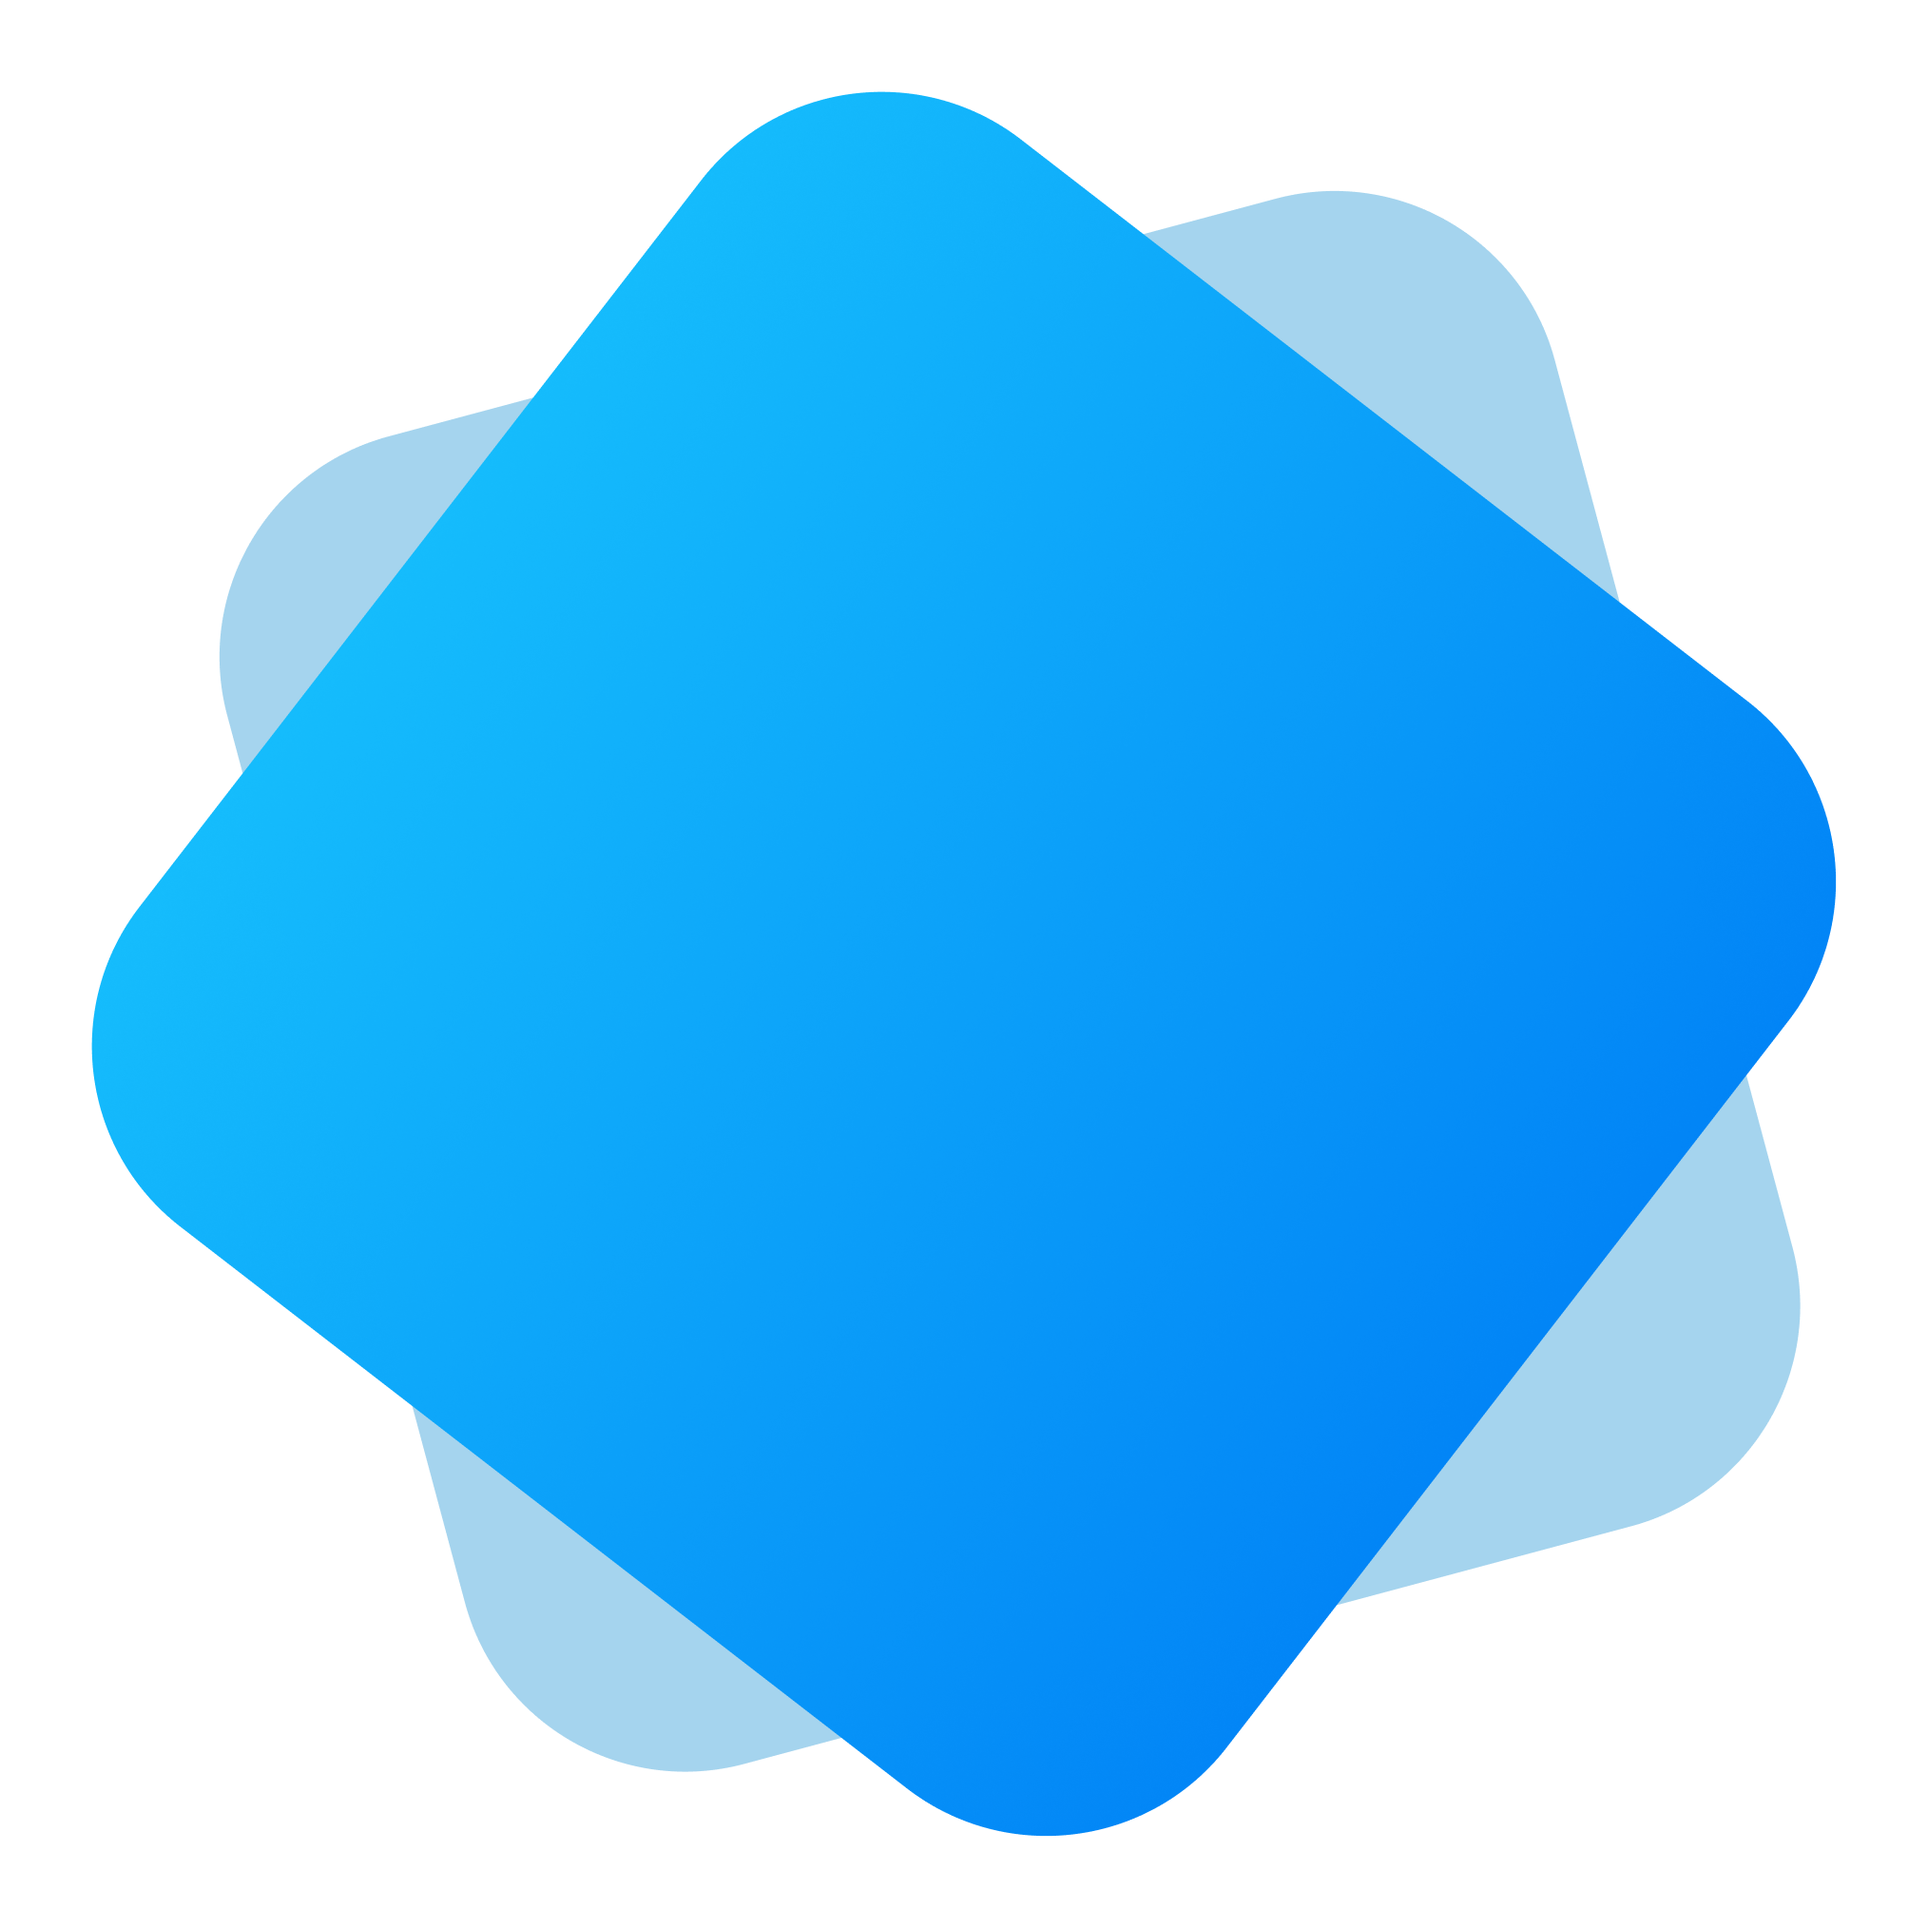
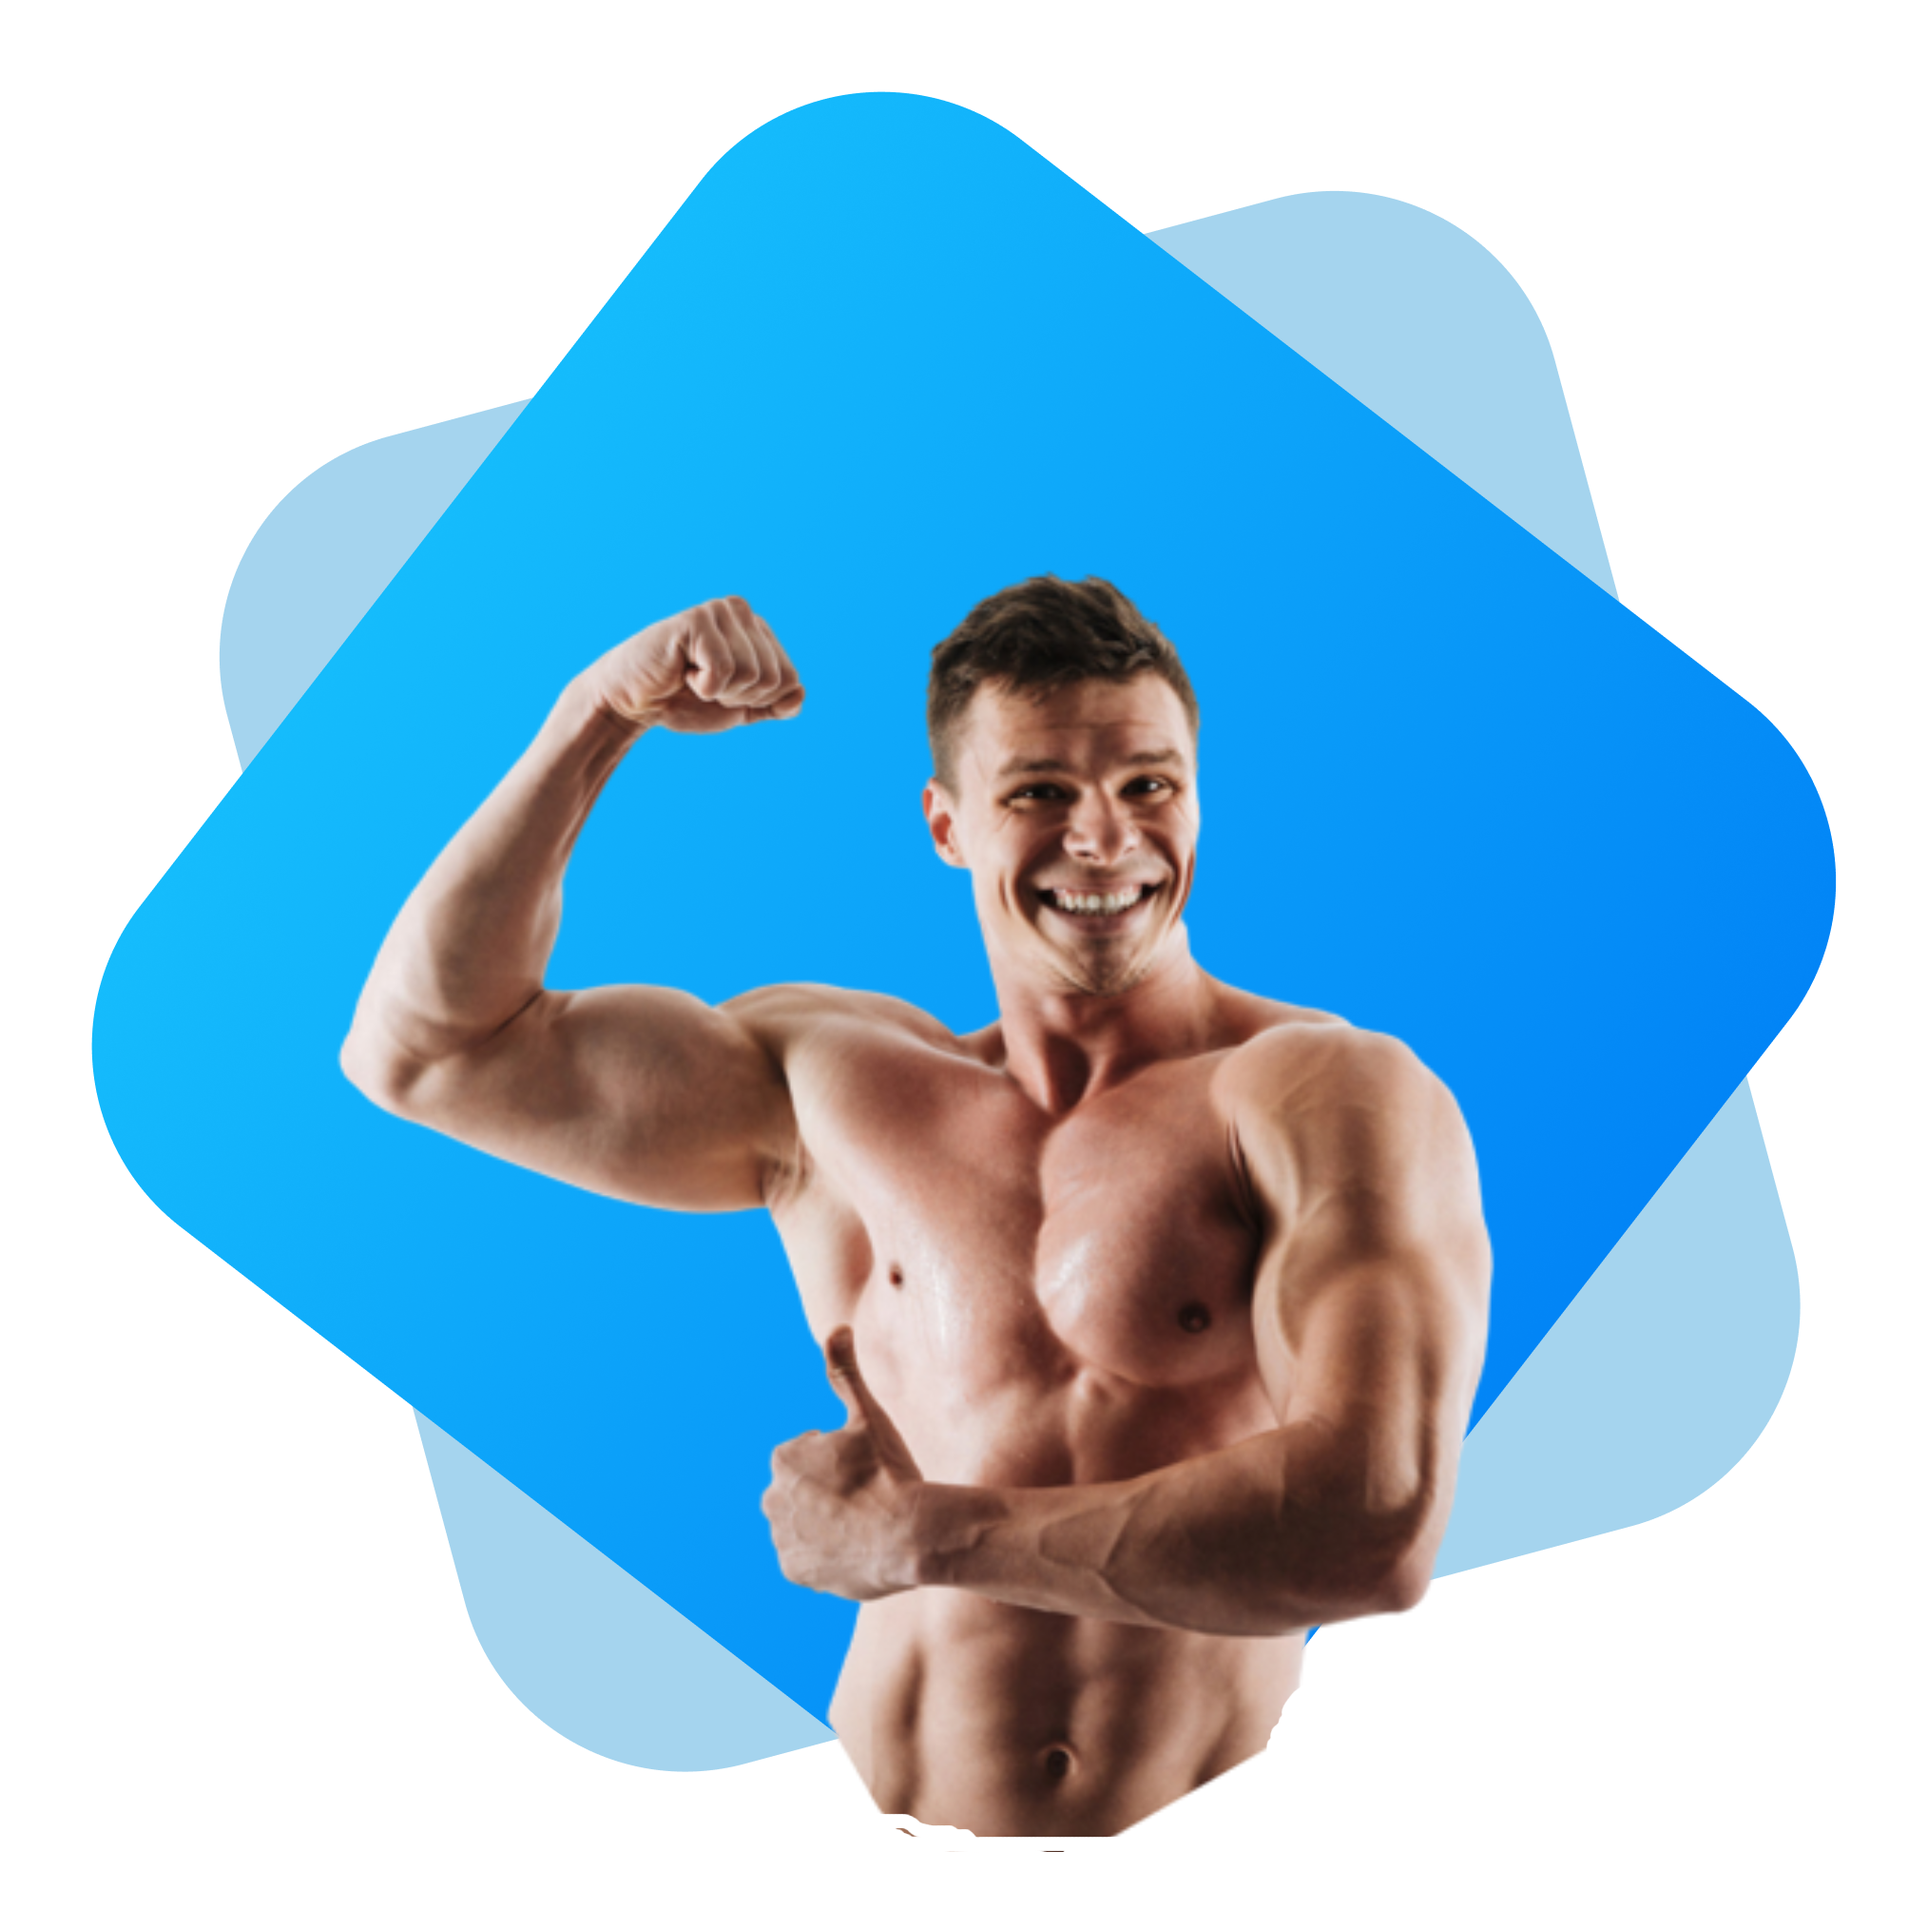
2nd step

Changed region(s): [[0.1553, 0.2796, 0.7766, 0.963]]

diff --git a/index.html b/index.html
@@ -1,0 +1,40 @@
+<!DOCTYPE html>
+<html lang="en">
+
+<head>
+    <meta charset="UTF-8">
+    <meta http-equiv="X-UA-Compatible" content="IE=edge">
+    <meta name="viewport" content="width=device-width, initial-scale=1.0">
+    <link rel="preconnect" href="https://fonts.googleapis.com">
+    <link rel="preconnect" href="https://fonts.gstatic.com" crossorigin>
+    <link href="https://fonts.googleapis.com/css2?family=Rubik&display=swap" rel="stylesheet">
+    <link rel="stylesheet" href="style.css">
+    <title>eat_healthy</title>
+</head>
+
+<body>
+    <section>
+        <div class="half-width">
+            <div>
+                <h1><span class="orange-color">Skip</span> The Diet,</h1>
+                <h1>Just Eat Healthy</h1>
+                <h1>With Food Network</h1>
+            </div>
+            <div>
+                <p>Imagine you don't need a diet because we provide healthy and delicious food for you..!</p>
+            </div>
+            <div>
+                <a target="_blank"
+                    href="https://www.foodpanda.com.bd/?gclid=Cj0KCQiAnNacBhDvARIsABnDa68e50-PkkZHBmu-4pWBHOtBkm82zjz4U7vG1A4tUw3lSsyqhWARLaAaAsZFEALw_wcB">Order
+                    Food</a>
+            </div>
+        </div>
+        <div class="half-width">
+            <img src="images/male/man.png" alt="a man with strong body">
+        </div>
+    </section>
+
+
+</body>
+
+</html>

diff --git a/style.css b/style.css
@@ -1,0 +1,24 @@
+body {
+    font-family: 'Rubik', sans-serif;
+    margin: 0%;
+}
+
+.orange-color {
+    color: #12B4FC;
+}
+
+section {
+    display: flex;
+
+}
+
+.half-width {
+    width: 50%;
+    padding: 2%;
+    font-size: xx-large;
+
+}
+
+.half-width img {
+    width: 100%;
+}
